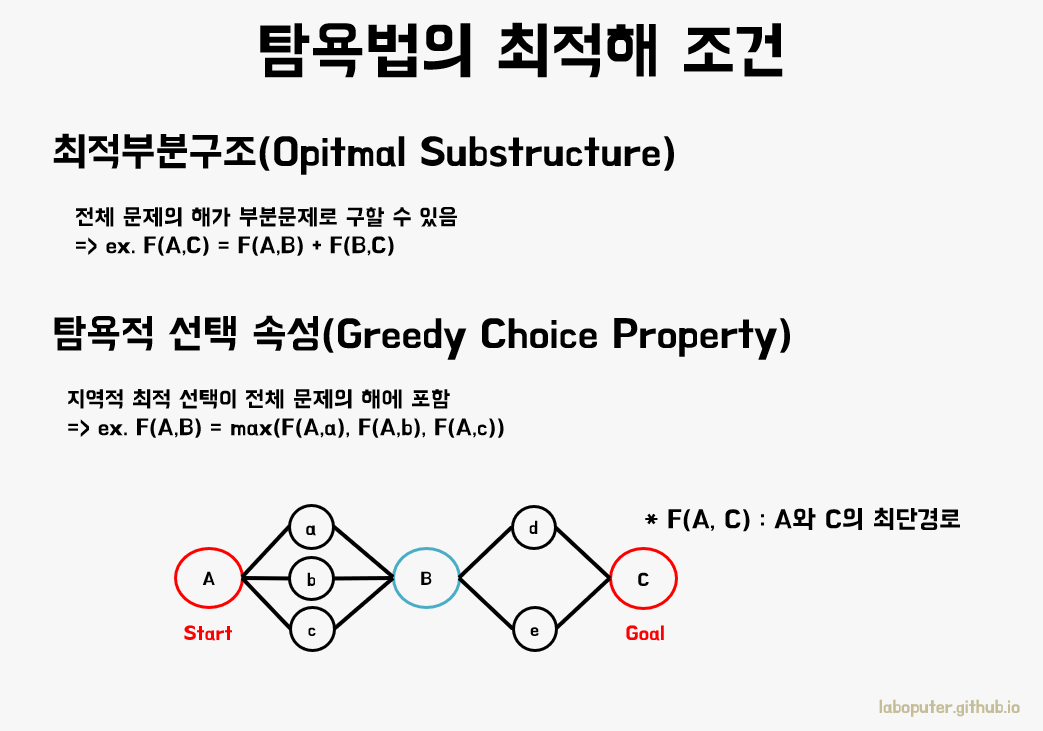
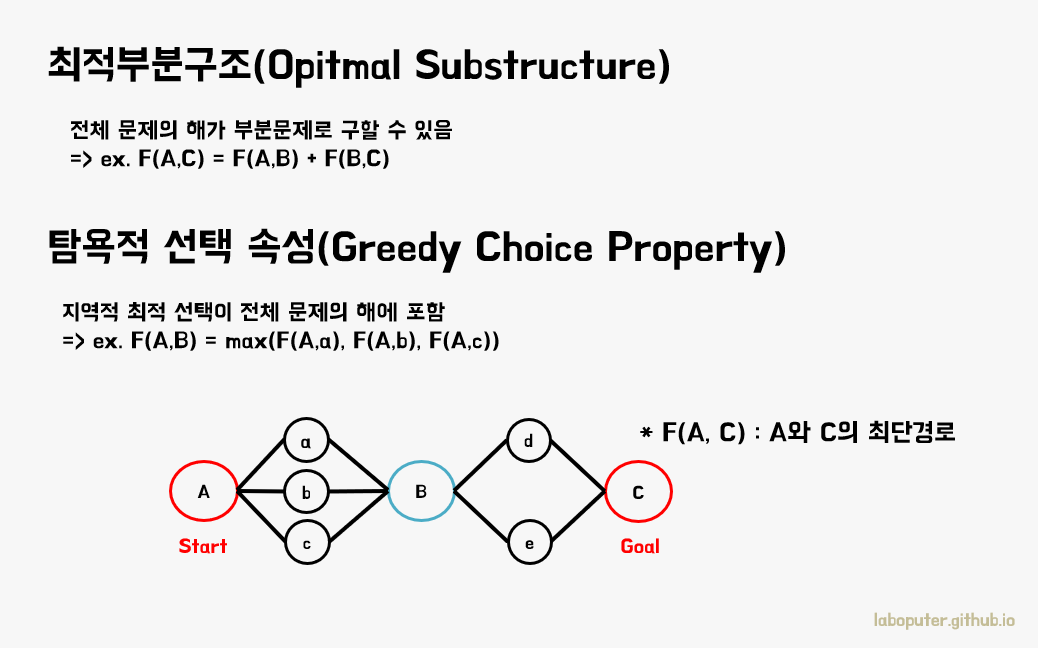
Upload a post (greedy)

diff --git a/_posts/ps-algorithm/2018-02-22-greedy.md b/_posts/ps-algorithm/2018-02-22-greedy.md
@@ -1,0 +1,171 @@
+---
+layout: post
+title: "[알고리즘 설계] 4. 탐욕법(Greedy)"
+subtitle: "algorithm1"
+categories: ps
+tags: algorithm
+---
+
+> 탐욕법은 보통 최적해를 구하기 어려울 때 근사해를 찾는 방법입니다. 하지만 특정 조건에서는 탐욕법으로도 최적해를 구할 수 있는데 이런 경우 알고리즘 문제로 등장하기도 합니다. 탐욕법을 이해할 수 있도록 몇 가지 예제를 통해 설명하고 연습문제를 풀어보면서 직접 구현해보는 것이 목표입니다.
+
+## 탐욕법 (Greedy)
+---
+
+[탐욕법(Greedy)](https://en.wikipedia.org/wiki/Greedy_algorithm)은 [완전탐색](https://laboputer.github.io/ps/2018/01/03/exhaustive-search/)과 [동적계획법](https://laboputer.github.io/ps/2018/02/13/dynamic-programming/)처럼 모든 경우를 탐색하여 계산한 결과를 바탕으로 구하는 것이 아니라 매순간 가장 좋은 선택(지역적인 최적해)만 하는 것을 말합니다. 
+
+최단경로를 찾는 문제를 예로 들면, 서울에서 부산까지 최단경로를 찾기위해 모든 경로를 탐색해보는 것이 아니라 서울에서 현재 갈 수 있는 지역 중 가장 가까운 도로만을 이용하면서 부산에 도달할 때까지 경로를 찾을 수 있습니다. 이렇게 탐색하면 당연히 훨씬 빠르게 계산할 수도 있고 최단경로에 꽤 가까운 답을 낼 수 있겠지만, 실제 최단경로는 아닐 가능성이 높습니다. 이처럼 대부분의 문제는 탐욕법으로는 최적해를 구할 수 없지만 근사해를 구해야할 경우 유용하게 사용될 수도 있습니다.
+
+그런데 탐욕법도 `어떤 조건` 하에서는 최적해일 수 있습니다. 그래서 우리는 탐욕법이 최적해를 구할 수 있는 이 조건에 대해서 깊게 고민해볼 것입니다.
+
+탐욕법에서 최적해를 구할 수 있으려면 2가지 조건이 성립해야 합니다.
+
+### 탐욕법의 최적해 조건
+
+1. [최적부분구조(Optimal Substructure)](https://en.wikipedia.org/wiki/Optimal_substructure)
+	- 전체문제의 해를 부분문제들의 해만으로도 구할 수 있게 분할가능한 구조
+
+2. [탐욕적 선택 속성(Greedy Choise Property)](https://en.wikipedia.org/wiki/Greedy_algorithm#:~:text=Greedy%20choice%20property)
+	- 지역적인 최적의 선택이 전체문제의 해에 반드시 포함됨
+
+![](https://laboputer.github.io/assets/img/algorithm/algorithm/04_greedy_1.PNG)
+
+`최적부분구조`는 [동적계획법](https://laboputer.github.io/ps/2018/02/13/dynamic-programming/)에서 적용하기 위한 조건 중 하나와 같은 것입니다. 다시 설명하면 그림과 같은 그래프에서 F(A,C)를 구하기 위해 F(A,B) 와 F(B,C)의 합으로 구할 수 있습니다. 전체 부분문제들도 모두 위와 같이 부분문제의 합으로 구할 수 있습니다. 이런 경우를 `최적부분구조`가 성립한다고 표현합니다.
+
+`탐욕적 선택 속성`은 그림처럼 F(A,B)를 구할 때 A의 입장에서 가장 가까운 길을 선택해도 F(a, B), F(b,B), F(c, B) 와 관계 없이 F(A,B)의 해에 포함되는 것을 말합니다. 이러한 속성이 모든 부분문제에 대해 적용되면 우리는 `탐욕적 선택 속성`이 성립한다고 말합니다.
+
+이 두 가지 속성이 성립하면 당연히 탐욕법은 최적해를 구할 수 있게 됩니다. 왜냐하면 `탐욕적 선택 속성`에 의해 현재 상태에서 최적의 선택이 최종 선택의 해에 포함되며 `최적부분구조`에 의해 부분 문제의 해만으로 전체 문제의 최적해를 구할 수 있기 때문입니다.
+
+## 탐욕법 사고연습
+---
+
+### 예제1. 동전 종류가 4가지(10원, 50원, 100원, 500원)이 있을 때, N 원을 가지기 위한 최소 동전의 개수는?
+```
+단, N은 1억 이하
+```
+
+[완전탐색](https://laboputer.github.io/ps/2018/01/03/exhaustive-search/) 접근:
+
+4가지 동전을 한번씩 사용해보는 재귀를 이용해서 모든 경우를 탐색할 수 있습니다. 하지만 시간복잡도가 O(4^x) 로 지수승에 가깝습니다.
+
+> x 값은 구하기 쉽지 않지만 500원을 기준으로 해도 1억/500 = 20만으로 매우 큰 값입니다.
+
+[동적계획법](https://laboputer.github.io/ps/2018/02/13/dynamic-programming/) 접근:
+
+```
+d[N] : N원을 표현하는 최소 동전 개수
+```
+이렇게 문제를 정의하면 관계식도 쉽게 찾을 수 있습니다. 하지만 N의 값이 아주 크기 때문에 메모리로 표현하기 어렵고, N의 값이 크다는 것은 구해야 하는 부분문제도 종류가 많다는 것을 의미합니다. 이 방법도 좋은 방법은 아닌 것 같습니다.
+
+탐욕법 접근:
+
+먼저 탐욕법으로 해결 가능한지 확인하기 위해 2가지 속성이 성립하는지 확인해야 합니다.
+
+```
+F(n) = 1 + min(F(n-10), F(n-50), F(n-100), F(n-500))
+```
+
+`최적부분구조`는 위와 관계식으로 쉽게 증명됩니다.
+
+```
+N보다 작은 가장 큰 동전을 사용한 최적해가 반드시 존재한다.
+```
+
+위의 의미를 좀 더 풀어서 설명하면 N 이 500 보다 크면 반드시 500원 짜리 동전을 사용하는 것이 좋습니다. 왜냐하면 500원을 표현할 때 다른 동전으로는 절대로 적은 개수로 표현할 수 없기 때문입니다. 즉 `탐욕적 선택 속성`이 성립합니다.  
+
+그렇기 때문에 이 문제는 4가지 동전을 하나씩 사용하면서 탐색해볼 것이 아니라 가장 큰 동전만을 계속 선택해도 최적해를 구할 수 있습니다.
+
+그러면 시간복잡도는 O(1) 입니다. 
+
+```C
+int coins[4] = {500, 100, 50, 10};
+
+int count = 0;
+for(int i=0; i<4; i++)
+{
+	if (N / coins[i])
+	{
+		count += N / coins[i];
+		N %= coins[i];
+	}
+}
+// Result
+printf("%d\n", count);
+```
+
+위와 같은 예제가 조건이 살짝 바뀌어 동전의 종류가 400원 짜리가 하나 추가되면 어떻게 될까요?
+
+### 예제 1-2: 동전 종류가 5가지 (10원, 50원, 100원, 400원, 500원) 이라면?
+
+이 문제는 `최적부분구조`가 성립하지만, `탐욕적 선택 속성`이 성립하지 않기 때문에 탐욕법으로 풀 수 없습니다.
+
+N = 800 인 경우, 위의 탐욕법으로 계산하면 4 (500원*1, 100원*3) 이지만 최적해는 2 (400원*2) 입니다. `탐욕적 선택 속성`이 성립하지 않기 때문에 지역적 최적의 선택이 최적해를 포함하지 않습니다.
+
+이 문제에서 `탐욕적 선택 속성`이 성립하려면 모든 동전의 종류가 각 동전의 배수여야 합니다. 그래야만 작은 동전을 X개 사용했을 때 더 큰 동전으로 대체할 수 있기 때문입니다.
+
+이렇게 탐욕법은 2가지 속성만 확인되면 아주 빠른 속도로 해를 구할 수 있습니다.
+
+## 연습문제
+---
+
+> 문제 링크:: ATM (https://www.acmicpc.net/problem/11399)
+
+> 자세한 문제 설명은 위 링크로 들어가셔서 확인하시고 직접 풀어보세요!
+
+이 문제는 모든 사람이 줄 서는 순서에 따라 대기시간이 달라지는데 이 대기시간을 최소화하는 문제입니다.
+ 
+### 풀이
+---
+
+이 문제는 좋은 아이디어 하나만 캐치하면 쉽게 푸실 수 있습니다.
+
+인출시간이 가장 짧은 사람이 제일 먼저 인출하게 하면 됩니다. 왜냐하면 앞에서 인출한 사람의 시간이 뒷사람에 모두 누적되니까요.
+
+수식으로 표현하면 총 대기시간은 아래와 같습니다.
+```
+# a[n]: n번째 사람이 인출한 시간이라고 할때,
+answer : a[0] * n + a[1] * (n-1) + ... + a[n-1]*1
+```
+
+가장 인출시간이 짧은 사람부터 인출하면 그 선택이 최적해에 반드시 포함되기 때문에 `탐욕적 선택 속성`을 만족합니다. 그리고 `최적부분구조`는 직관적으로도 쉽게 성립함을 알 수 있습니다.
+
+즉 이 문제는 탐욕법으로 가장 짧은 인출시간을 가진 사람부터 인출하기 위해, 오름차순으로 정리한다음 전체시간만 구하면 됩니다.
+
+시간복잡도는 정렬하는 것에 지배적이기 때문에 O(NlogN) 입니다.
+
+전체 코드:
+```C
+#include <stdio.h>
+#include <algorithm>
+using namespace std;
+#define MAXN 1005
+
+int a[MAXN];
+int N;
+int main(void)
+{
+	scanf("%d", &N);
+	for (int i = 0; i < N; i++) scanf("%d", &a[i]);
+
+	sort(a, a + N);
+
+	int sum = 0;
+	int ans = 0;
+	for (int i = 0; i < N; i++)
+	{
+		sum += a[i];
+		ans += sum;
+	}
+
+	printf("%d\n", ans);
+	return 0;
+}
+```
+
+## 다른 연습문제 추천
+---
+
+- 행렬: (https://www.acmicpc.net/problem/1080)
+- 회의실 배정: (https://www.acmicpc.net/problem/1931)
+
+---
+그리디 문제는 알고리즘을 전혀 몰라도 쉽게 접근가능하긴 하지만 어려운 문제에 속하는 것들은 탐욕적 선택 속성을 만족하는 아이디어를 찾는 것이 결코 쉽지는 않습니다. 그저 많이 풀어보는게 답인듯 합니다.
